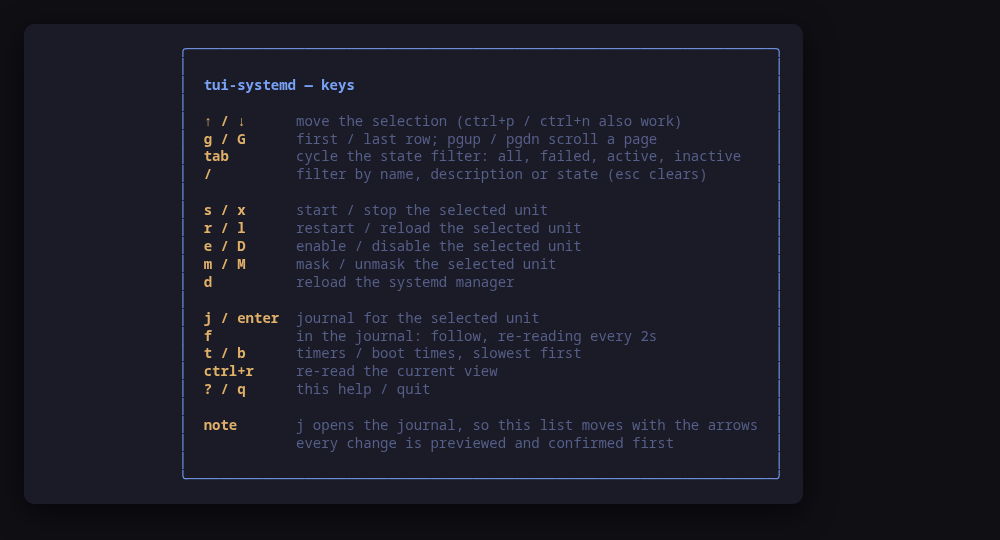
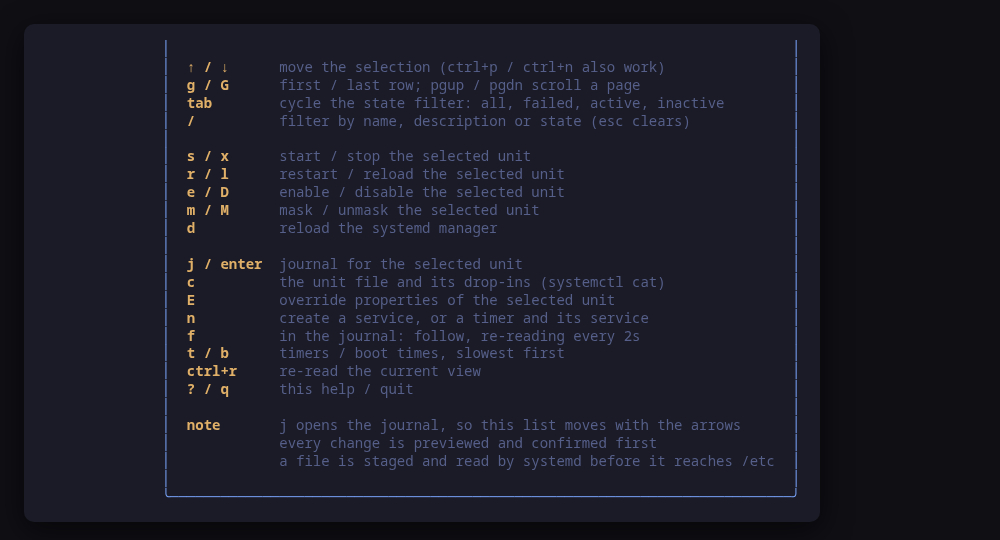
Document unit authoring, and smoke the read it depends on
A feature is documented in the PR that finishes it, so the README gains
the section that explains the five steps a write takes and why each one is
there, the keys table and the two feature lists gain the three keys, and
the manifest gains them too — the help screen, the key map and tool.json
are generated from the same facts and must not drift.

Three new screenshots are rendered from --demo by the shared renderer;
main, failed and help re-render because the hint bar and the help screen
changed with them.

The smoke test grows two assertions, because the authoring screens rest on
a read the suite did not cover: `systemctl cat`, which the editor seeds
itself from and measures its diff against, is now probed by --check and
asserted per distro; and `systemd-analyze verify` is asserted to run
unprivileged, since whether it does decides whether a confirm dialog can
claim systemd read the file at all.

Claude-Session: https://claude.ai/code/session_01MCypLQF5AD8JD831Ea9S9q

Changed region(s): [[0.155, 0.0889, 0.806, 0.8889], [0.031, 0.9185, 0.806, 0.9481]]

diff --git a/README.md b/README.md
@@ -8,8 +8,8 @@
 > breaks.
 
 A terminal UI for systemd units. It opens on what failed, shows you the journal
-that explains why, and **previews the exact command line of every change before
-running it**.
+that explains why, writes the drop-in or the unit file you need, and **previews
+the exact command line of every change before running it**.
 
 ![Unit list](docs/screenshots/tui-systemd-main.png)
 
@@ -272,6 +272,55 @@ sudo.
 the UI hands the same value to the preview and to the runner, so what you read
 is what executes.
 
+## Writing unit files
+
+`c` shows the unit as systemd assembles it — the fragment and every drop-in,
+each named by its path, which is the only honest answer to "where is this
+property set".
+
+![The unit file](docs/screenshots/tui-systemd-cat.png)
+
+`E` opens a guided editor over a **closed set of properties**: `Restart`,
+`RestartSec`, `MemoryMax`, `CPUQuota`, `Environment`, `Nice`, and `OnCalendar`
+on a timer. Each is offered with the values systemd accepts — a list where the
+value is a choice, a checked pattern where it is not — so a typo cannot reach
+`/etc`. The editor writes one file and rewrites it whole:
+
+    /etc/systemd/system/<unit>.d/90-tui-systemd.conf
+
+![The drop-in editor](docs/screenshots/tui-systemd-edit.png)
+
+`n` creates a unit from a vetted template: a service, or a timer and the
+service it starts. The program in `ExecStart` must be an absolute path, and
+**an existing unit is never overwritten** — edit that one with `E` instead.
+
+![Creating a unit](docs/screenshots/tui-systemd-new.png)
+
+Both take the same road to disk, and it is the one thing to understand about
+this feature:
+
+1. **Render** the whole file. Nothing is appended, so a property can never end
+   up in the file twice with systemd quietly taking the last one.
+2. **Stage** it in a private temporary directory, beside a copy of everything
+   systemd reads for that unit — the fragment, and the drop-ins somebody else
+   shipped.
+3. **Check** it with `systemd-analyze verify`, before you are asked anything.
+   `verify` warns about a value it cannot parse and still exits 0, so any
+   output at all counts as a refusal: a line systemd would silently ignore is a
+   line you thought you were setting.
+4. **Review** the unified diff and the exact command lines.
+5. **Install** with `install -m 644` — the mode is set in the same call, so
+   there is no window where the file exists with the wrong one — and
+   `systemctl daemon-reload`.
+
+Restarting the unit afterwards, or `enable --now` on a unit you just created,
+is a **second confirmation**: writing a file and taking a service down are
+different decisions, and they are asked separately.
+
+Under `--demo` the whole flow works against the sample machine, with the same
+command lines, and says plainly that the file was not checked — the demo does
+not run `systemd-analyze`, and it does not pretend to.
+
 ## The journal, where you already are
 
 Press `j` on a unit to read its log without leaving the tool. `f` follows it,
@@ -304,6 +353,9 @@ boot slow.
 | `m` / `M` | Mask / unmask the selected unit |
 | `d` | Reload the systemd manager (`daemon-reload`) |
 | `j` / `enter` | Journal for the selected unit |
+| `c` | Show the unit file and its drop-ins (`systemctl cat`) |
+| `E` | Override properties of the selected unit in a drop-in |
+| `n` | Create a service, or a timer and the service it starts |
 | `f` | In the journal: follow, re-reading every 2s |
 | `t` | Timers |
 | `b` | Boot times, slowest first |
@@ -329,6 +381,10 @@ navigation: `j` for journal is worth more here than `j` for down, and `k`,
 - Start, stop, restart, reload, enable, disable, mask and unmask a unit, and
   reload the systemd manager, each behind a command preview and a confirmation.
 - Read a unit's journal, and follow it.
+- Show the unit file and its drop-ins (`c`).
+- Override a closed set of properties through a generated drop-in (`E`), and
+  create a service or a timer from a template (`n`) — each staged, checked with
+  `systemd-analyze verify`, diffed and confirmed before anything is installed.
 - List timers with when they fire next and when they last fired.
 - Show the slowest units of the last boot.
 - Follow the active Omarchy theme, and respect `NO_COLOR`.
@@ -336,12 +392,18 @@ navigation: `j` for journal is worth more here than `j` for down, and `k`,
 ## What v0.1 cannot do
 
 - **System units only.** No `--user` scope yet.
-- **No `systemctl edit`**, no drop-in editing, no unit file viewing.
+- **No free-text unit editing.** The drop-in editor covers seven properties and
+  the templates cover a service and a timer; anything else is still `systemctl
+  edit` in `$EDITOR`.
+- **No deleting.** A unit this tool wrote is removed with `rm` and a
+  `daemon-reload`, deliberately: this tool creates and edits, it does not
+  delete.
 - **No dependency tree**, no `systemd-analyze critical-chain` or plots.
 - **No live status detail** beyond the journal: no cgroup, no main PID, no
   memory or task counts.
-- No `--now` combinations: enable and start are separate keys, and separate
-  confirmations.
+- No `--now` combinations from the action keys: enable and start stay separate
+  keys with separate confirmations. A unit you just created is the one place
+  `enable --now` is offered, as its own second confirmation.
 - The journal is read-only and unfiltered; there is no priority or time filter.
 - **The timers view needs systemd 250 or newer**, which is when
   `list-timers --output=json` landed. The unit list works on older systemd.
@@ -410,11 +472,19 @@ in the confirm dialog and handed back to the
 [kit runner](https://github.com/tui-tools/tui-kit#the-contract-preview-confirm-run),
 which resolves the binary and the privilege prefix.
 
-Three binaries are involved, each with its own runner and its own failure
-message: `systemctl` for the list and the actions, `journalctl` for the log
-panel, `systemd-analyze` for the boot view. Only `systemctl` escalates, and only
-for actions. A host missing `journalctl` or `systemd-analyze` still gets the unit
-list, and the affected view says what is missing.
+Four binaries are involved, each with its own runner and its own failure
+message: `systemctl` for the list, the actions and `cat`; `journalctl` for the
+log panel; `systemd-analyze` for the boot view and for the syntax check; and
+`install` for putting a staged file in `/etc/systemd/system`. Only `systemctl`
+and `install` escalate, and only to change something — the syntax check is a
+read, and a check that needed a password would be a check nobody ran. A host
+missing `journalctl`, `systemd-analyze` or `install` still gets the unit list,
+and the affected view says what is missing.
+
+The file-writing path is ported from
+[tui-ssh](https://github.com/tui-tools/tui-ssh), which edits `sshd_config` the
+same way: render, stage, let the daemon's own parser read it, install, reload.
+The two tools show a file change identically on purpose.
 
 Both list readers use `--output=json` rather than the text tables. The tables
 are column-aligned, truncate to the terminal width and right-align their time
@@ -467,6 +537,14 @@ is committed so the bug cannot come back quietly.
   twice, and neither does this tool beyond its one confirmation.
 - The tool re-reads the unit list after every change, so what you see is what
   systemd reports, not what the tool assumed.
+- **A drop-in is world-readable**, like every unit file. `Environment=` is
+  there for a log level, not for a password or a token — point the unit at a
+  file with `EnvironmentFile=` for those.
+- The editor refuses a **masked** unit (a drop-in for it is read by nothing)
+  and a **transient** one (it lives in `/run` and disappears with the manager
+  that made it).
+- `daemon-reload` makes systemd read the new file; it does not make a running
+  unit adopt it. That is what the restart step is for, and it says so.
 
 ## Contributing
 
